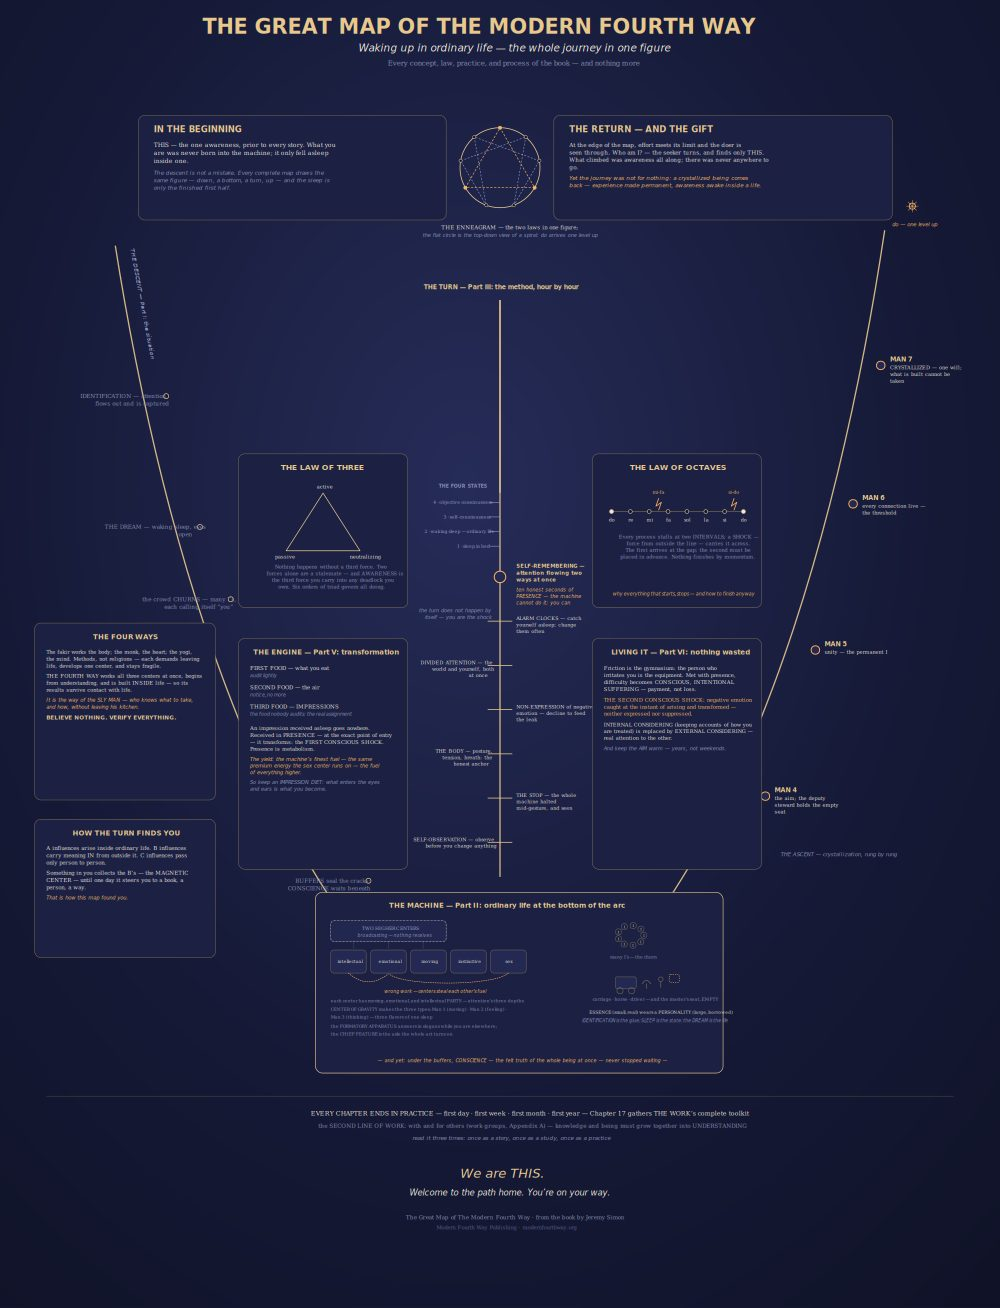
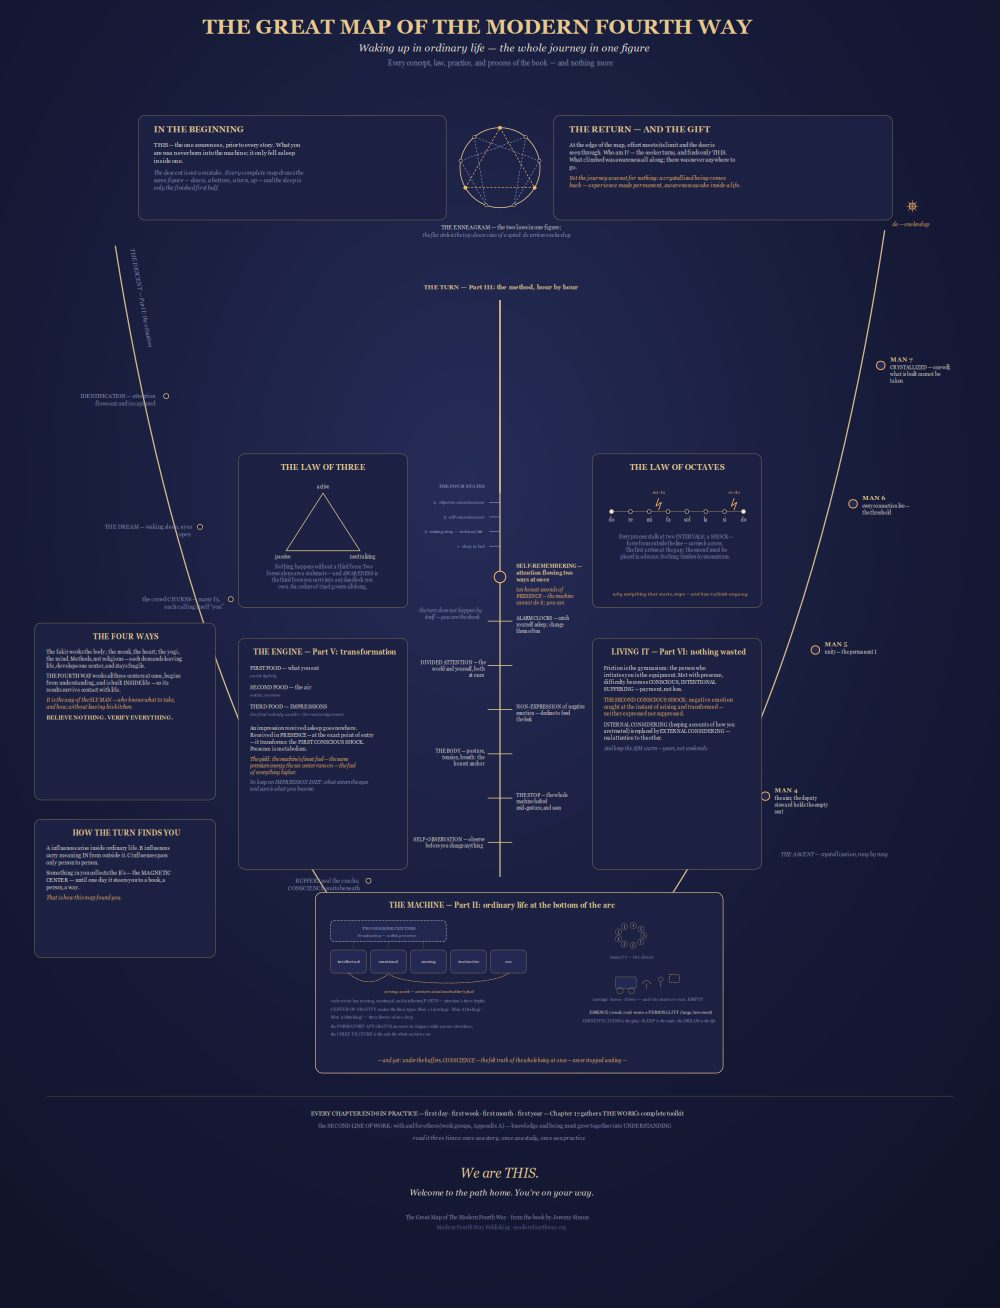
Sync site with current book: Ch10 deepening (whirlpool, taste, return, instrument), impressions teaching, nine diagrams, audiobook note

diff --git a/index.html b/index.html
@@ -108,7 +108,8 @@ section h2{font-size:26px;}
 <figure><img src="man-number-seven.png" alt="Man number seven" loading="lazy"><figcaption>Man 7 — the machine after crystallization</figcaption></figure>
 </div>
 <div class="inbook">In the book: Chapters 4–9 — including the parts of centers, chief feature, and the full education of the emotional center</div></section><section id="practices"><div class="eyebrow">Part III — Core Practices</div><h2>The Method, Hour by Hour</h2>
-<p><span class="keyterm">Self-observation</span> comes first, and it has an iron rule: <em>observe before you change anything</em>. You cannot repair a machine you have never watched run. Then the central practice: <span class="keyterm">self-remembering</span> — divided attention, a line of awareness held on the world and a line held on yourself, both at once. Ten seconds of it is real. The machine cannot do it; that is precisely why it works.</p>
+<p><span class="keyterm">Self-observation</span> comes first, and it has an iron rule: <em>observe before you change anything</em>. You cannot repair a machine you have never watched run. Then the central practice: <span class="keyterm">self-remembering</span> — divided attention, awareness of the world AND of yourself, both at once. Ten seconds of it is real. The machine cannot do it; that is precisely why it works.</p>
+<p>Understand what actually changes, because it is not the presence of awareness — awareness is <em>always</em> present. What changes is the <span class="keyterm">shape of its flow</span>. Ordinary attention moves like an arrow, or a river: one direction, out, spent entirely at its target. In self-remembering the flow becomes <em>circular</em> — a <span class="keyterm">whirlpool</span> — still touching the world, more vividly than before, but curving back through the one who touches: nothing divided, one current bent into a circle. And the real state has a <span class="keyterm">taste</span> you can learn: the counterfeit <em>announces</em> itself in words, while the real thing <em>shifts</em> something — a slight, unmistakable clarity that grows if you stay. The state will be lost, again and again; finding your way back — again, and again, and again — is not failure. It is the practice itself, wearing the channel that one day carries its own current. Even the effort has a horizon: what is practiced long enough becomes structure, and what once cost everything eventually costs nothing. Meanwhile, tend the instrument — a tired or hungry body drags every arrow to itself. Sometimes the most spiritual thing you can do is take the nap.</p>
 <p>The Work names <span class="keyterm">four states of consciousness</span>: sleep in bed, so-called waking sleep (ordinary life), self-consciousness (self-remembering sustained), and objective consciousness. Most lives are spent entirely in the second. The practices aim at the third — and the third opens the door to the fourth.</p>
 <p>Two further fronts: the body — posture, tension, breath — as the most honest instrument on the panel and the anchor for attention; and the emotions, where the Work makes its most counter-cultural demand: the <span class="keyterm">non-expression of negative emotions</span> — not suppression, but declining to feed the leak while observing it, because negative emotion is the machine's single largest energy hemorrhage.</p>
 <div class="inbook">In the book: Chapters 10–12, each ending in graduated practices — plus the complete toolkit of Chapter 17</div></section><section id="three"><div class="eyebrow">Part IV — The Laws</div><h2>The Law of Three: Nothing Happens Without a Third Force</h2>
@@ -131,7 +132,7 @@ section h2{font-size:26px;}
 <div class="animwrap"><iframe src="enneagram.html" title="The Living Enneagram" loading="lazy"></iframe></div>
 <p class="animnote"><a href="enneagram.html" target="_blank">Open the Living Enneagram full-screen &rarr;</a></p>
 <div class="inbook">In the book: Chapters 15–16 — reading the figure, and the transformation of energies mapped on it</div></section><section id="transformation"><div class="eyebrow">Part V — Transformation</div><h2>Three Foods, and the Shock Only You Can Give</h2>
-<p>The machine runs on <span class="keyterm">three foods</span>: what you eat, the air you breathe — and <span class="keyterm">impressions</span>, everything that enters through the senses. The third food is the one nobody audits, and in the modern world it has become industrial sludge: engineered feeds, engagement bait, ambient noise. The Work's claim is exact: <em>the quality of your consciousness is downstream of the quality of your impressions</em>.</p>
+<p>The machine runs on <span class="keyterm">three foods</span>: what you eat, the air you breathe — and <span class="keyterm">impressions</span>, everything that enters through the senses. The third food is the one nobody audits, and in the modern world it has become industrial sludge: engineered feeds, engagement bait, ambient noise. The Work's claim is exact: <em>the quality of your consciousness is downstream of the quality of your impressions</em>. And unlike the other two foods, this one never pauses: you can fast from food for weeks and from air for minutes, but the stream of impressions runs as long as you live — starve it and the mind simply prints its own. The only impression-free state is death, which makes this the one doorway where presence can always be applied.</p>
 <p>And here the octave teaching turns personal. Impressions arrive at the machine as a <em>do</em> that ordinarily goes nowhere — unless a shock is applied at the precise point of entry. That shock is <span class="keyterm">self-remembering at the moment of impression</span>: the <span class="keyterm">first conscious shock</span>. Received awake, the same sight, the same face, the same street delivers finer energy — the fuel every higher process requires. This is why presence is not a luxury. It is metabolism.</p>
 <div class="inbook">In the book: Chapters 16–18 — the full energy ladder, the impression diet, and the complete practice program: first day, first week, first month, first year</div></section><section id="living"><div class="eyebrow">Part VI — Living the Work</div><h2>Friction, Suffering, and the Second Shock</h2>
 <p>The Work does not promise a smoother life; it promises that nothing in your life need be wasted. Difficulty becomes <span class="keyterm">conscious suffering</span> — suffering met with presence instead of identification — and the very frictions that once drained you become fuel. The person who irritates you is, precisely, your gymnasium.</p>
@@ -152,11 +153,12 @@ section h2{font-size:26px;}
 <img src="cover.png" alt="The Modern Fourth Way — book cover">
 <div>
 <p><em>A Practical Workbook for Waking Up — and Discovering What You Actually Are</em></p>
-<p>Everything on this page is the overview. The book is the practice: twenty-five chapters across eight parts, every chapter ending in graduated exercises — first day, first week, first month, first year — plus the complete toolkit, seven diagrams of the human machine, the full teaching of the two laws with worked examples, a 46-term glossary keyed to the page where each idea is first taught, and the final part this site deliberately leaves for the book itself.</p>
+<p>Everything on this page is the overview. The book is the practice: twenty-five chapters across eight parts, every chapter ending in graduated exercises — first day, first week, first month, first year — plus the complete toolkit, nine original diagrams, the full teaching of the two laws with worked examples, a 46-term glossary keyed to the page where each idea is first taught, and the final part this site deliberately leaves for the book itself.</p>
 <p>By Jeremy Simon &middot; Modern Fourth Way Publishing</p>
 <a class="btn soon">Buy the Book — Coming Soon</a>
 <a class="btn" href="mailto:info@modernfourthway.org">Contact</a>
-<p style="margin-top:14px;font-size:0.95em">Listening to the audiobook? <a href="audiobook-companion.pdf" download>Download the companion PDF</a> — all nine diagrams and the complete glossary of the Work.</p>
+<p style="margin-top:14px;font-size:0.95em">An audiobook edition — read by the author — is in production.</p>
+<p style="margin-top:6px;font-size:0.95em">Listening to the audiobook? <a href="audiobook-companion.pdf" download>Download the companion PDF</a> — all nine diagrams and the complete glossary of the Work.</p>
 </div></div></section>
 
 <footer>
